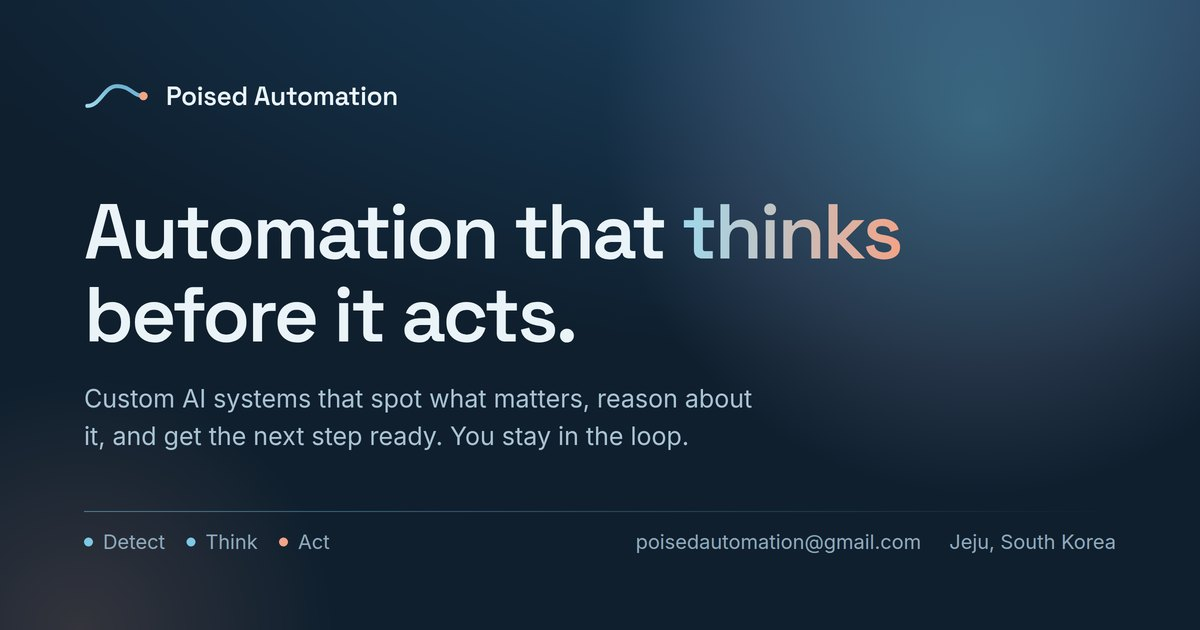
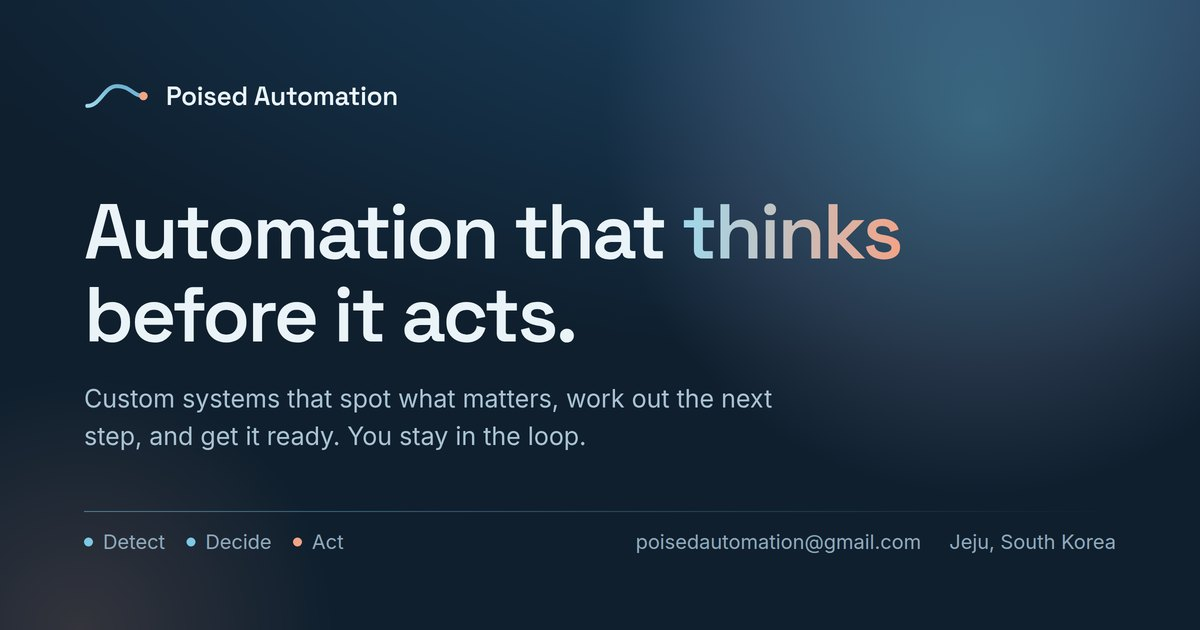
Reposition the thinking layer as engineered logic, switch to company voice
Three changes to how the work is described.

The hero now says "we build", not "they spot". The company voice is first
person plural throughout, and the contact section matches it. The about
section still tells the solo engineer story, just without a clashing
pronoun.

AI is no longer presented as the thing doing the deciding. The second step
is now called Decide instead of Think, and it leads with the decision rules
mapped to the client's real workflow. AI is described as handling the one
open ended part of a case, like reading a message or drafting a reply, then
handing the result back to the rules. The hero pipeline label changes from
"AI evaluates" to "Logic decides", and the Design step in the process
section talks about what the rules decide and which cases need judgement.

Dropped the "typically built with" tool chips. Naming the stack made the
work look like something anyone could assemble.

Regenerated the share image to match. Lighthouse is unchanged at
99/100/100/100 on mobile.

Claude-Session: https://claude.ai/code/session_01ASdRPZi4XkngQwSZ9wGB8b

Changed region(s): [[0.0617, 0.6032, 0.6475, 0.7238], [0.1542, 0.8444, 0.2775, 0.8746]]

diff --git a/index.html b/index.html
@@ -4,7 +4,7 @@
 <meta charset="utf-8">
 <meta name="viewport" content="width=device-width, initial-scale=1">
 <title>Poised Automation | Custom AI Automation Systems for Business</title>
-<meta name="description" content="Poised Automation builds custom AI systems that spot what matters in your business, work out the next step, and act on it. You stay in control of anything that goes out. Based in Jeju, South Korea, working worldwide.">
+<meta name="description" content="We build custom automation systems that take the repetitive digital work off your desk. Engineered decision logic handles the routine, AI covers the cases that genuinely need judgement, and you approve anything that goes out. Based in Jeju, South Korea, working worldwide.">
 <meta name="author" content="Poised Automation">
 <meta name="theme-color" content="#F7FAFC" media="(prefers-color-scheme: light)">
 <meta name="theme-color" content="#0F1F2E" media="(prefers-color-scheme: dark)">
@@ -14,7 +14,7 @@
 <meta property="og:type" content="website">
 <meta property="og:site_name" content="Poised Automation">
 <meta property="og:title" content="Poised Automation | Automation that thinks before it acts.">
-<meta property="og:description" content="Custom AI systems that handle the repetitive digital work. They detect, evaluate and draft. A human approves anything that matters.">
+<meta property="og:description" content="Custom automation systems that handle the repetitive digital work. Engineered logic decides, AI covers the judgement calls, and you approve anything that matters.">
 <meta property="og:url" content="https://poisedautomation.netlify.app/">
 <meta property="og:image" content="https://poisedautomation.netlify.app/assets/img/og.jpg">
 <meta property="og:image:width" content="1200">
@@ -40,7 +40,7 @@
   "@context": "https://schema.org",
   "@type": "ProfessionalService",
   "name": "Poised Automation",
-  "description": "Custom AI automation systems for businesses. Poised Automation designs, builds and refines systems that detect a signal, evaluate it with AI, and act on it, with a human checkpoint on anything sensitive.",
+  "description": "Custom automation systems for businesses. Poised Automation designs, builds and refines systems that detect a signal, decide what to do with engineered logic, call on AI for the cases that need judgement, and act, with a human checkpoint on anything sensitive.",
   "url": "https://poisedautomation.netlify.app/",
   "email": "poisedautomation@gmail.com",
   "image": "https://poisedautomation.netlify.app/assets/img/og.jpg",
@@ -119,9 +119,10 @@
         <p class="eyebrow reveal">AI automation studio in Jeju, South Korea</p>
         <h1 class="reveal">Automation that <em>thinks</em> before it acts.</h1>
         <p class="lede reveal">
-          Poised Automation builds custom AI systems that handle the repetitive digital work
-          inside a business. They spot what matters, think it through, and get the next step
-          ready. You stay in control of anything that actually goes out the door.
+          We build custom systems that handle the repetitive digital work inside a business.
+          Each one runs on decision logic mapped to how you already work, so it knows what
+          matters and what happens next. You stay in control of anything that actually goes
+          out the door.
         </p>
         <div class="hero__actions reveal">
           <a class="btn btn--accent" href="#contact">Start a conversation</a>
@@ -153,7 +154,7 @@
           </svg>
           <ul class="pipeline__labels">
             <li><span class="dot"></span>Signal detected</li>
-            <li><span class="dot"></span>AI evaluates</li>
+            <li><span class="dot"></span>Logic decides</li>
             <li><span class="dot"></span>Human checkpoint</li>
             <li><span class="dot"></span>Action taken</li>
           </ul>
@@ -186,8 +187,8 @@
         <p class="eyebrow">What Poised Automation does</p>
         <h2>Three moves, running quietly in the background.</h2>
         <p class="sub">
-          Every system is built around the same simple shape. Watch, think, act. All of it wired
-          into the tools a business already uses.
+          Every system is built around the same simple shape. Watch, decide, act. All of it
+          wired into the tools you already use.
         </p>
       </header>
 
@@ -201,10 +202,11 @@
           </li>
           <li class="step reveal" data-step="2">
             <span class="step__num" aria-hidden="true">02</span>
-            <h3>Think</h3>
-            <p>An AI model reads what came in and works out the next step. Is this worth your time,
-              what does it need, what should the reply say, where does it belong. Reasoning, not
-              keyword matching.</p>
+            <h3>Decide</h3>
+            <p>This is the engineered part. We map your real decision rules first. What counts as
+              urgent, where each case belongs, what has to be true before anything moves. When a
+              case is genuinely open ended, like reading a message or drafting a reply, an AI model
+              handles that one step and hands the result back.</p>
           </li>
           <li class="step reveal" data-step="3">
             <span class="step__num" aria-hidden="true">03</span>
@@ -234,20 +236,12 @@
             </svg>
           </div>
           <figcaption>
-            A signal arrives, the model reasons about it, and the result lands where it belongs.
-            There is always a checkpoint before anything irreversible.
+            A signal arrives, the rules work out what it needs, and the result lands where it
+            belongs. There is always a checkpoint before anything irreversible.
           </figcaption>
         </figure>
       </div>
 
-      <p class="stack reveal">
-        <span class="stack__label">Typically built with</span>
-        <span class="chip">Make.com</span>
-        <span class="chip">Claude &amp; other AI models</span>
-        <span class="chip">Airtable</span>
-        <span class="chip">Telegram / Slack checkpoints</span>
-        <span class="chip">Your existing tools</span>
-      </p>
     </div>
   </section>
 
@@ -267,8 +261,9 @@
         </li>
         <li class="proc reveal">
           <span class="proc__idx">Design</span>
-          <p>Map the exact workflow on paper. What triggers it, what the AI decides, what data it
-            needs, and exactly where a human checks in before anything goes out.</p>
+          <p>Map the exact workflow on paper. What triggers it, what the rules decide, which cases
+            genuinely need judgement, what data it needs, and exactly where you check in before
+            anything goes out.</p>
         </li>
         <li class="proc reveal">
           <span class="proc__idx">Build</span>
@@ -305,8 +300,8 @@
         </article>
         <article class="card reveal">
           <h3>Control stays with you</h3>
-          <p>Drafts, not sends. Recommendations, not spends. The automation does the thinking and
-            the typing. The final call stays human.</p>
+          <p>Drafts, not sends. Recommendations, not spends. The system does the work and the
+            typing. The final call stays human.</p>
         </article>
         <article class="card reveal">
           <h3>Fitted, not adapted</h3>
@@ -343,7 +338,7 @@
           <div><dt>Studio</dt><dd>Poised Automation</dd></div>
           <div><dt>Based in</dt><dd>Jeju, South Korea</dd></div>
           <div><dt>Works with</dt><dd>Businesses worldwide, remotely</dd></div>
-          <div><dt>Focus</dt><dd>AI-driven workflow automation</dd></div>
+          <div><dt>Focus</dt><dd>Business workflow automation</dd></div>
           <div><dt>Approach</dt><dd>One bottleneck at a time</dd></div>
         </dl>
       </aside>
@@ -357,8 +352,8 @@
         <p class="eyebrow">Get in touch</p>
         <h2>Let's find the bottleneck worth automating.</h2>
         <p class="sub">
-          Tell me the task you would hand off tomorrow if you could. One line is enough. I will reply
-          with whether it is a good first candidate and what it would take.
+          Tell us the task you would hand off tomorrow if you could. One line is enough. We will
+          reply with whether it is a good first candidate and what it would take.
         </p>
       </header>
 
@@ -382,7 +377,7 @@
           <label for="task">The repetitive task, in one line</label>
           <textarea id="task" name="task" rows="3" required
             placeholder="e.g. Every enquiry from the site gets read, sorted and replied to by hand."></textarea>
-          <p class="err" data-err="task" hidden>A sentence is plenty. Just so I know what we are looking at.</p>
+          <p class="err" data-err="task" hidden>A sentence is plenty, just so we know what we are looking at.</p>
         </div>
         <!-- honeypot: real people never see it, bots fill it in -->
         <div class="hp" aria-hidden="true">

diff --git a/assets/css/styles.css b/assets/css/styles.css
@@ -411,16 +411,6 @@ ul, ol { margin: 0; padding: 0; list-style: none; }
 .flowviz .pipeline { max-width: 300px; margin-inline: auto; }
 .flowviz figcaption { font-size: .9rem; color: var(--mist); margin-top: .75rem; max-width: 34ch; margin-inline: auto; }
 
-.stack {
-  display: flex; flex-wrap: wrap; align-items: center; gap: .5rem;
-  margin: clamp(2.5rem, 5vw, 3.5rem) 0 0; justify-content: center;
-}
-.stack__label { font-size: .82rem; letter-spacing: .1em; text-transform: uppercase; color: var(--mist); margin-right: .35rem; }
-.chip {
-  font-size: .86rem; font-weight: 500; color: var(--deep);
-  background: rgba(255,255,255,.85); border: 1px solid var(--sky-soft);
-  padding: .42rem .85rem; border-radius: 999px;
-}
 @media (max-width: 900px) {
   .flowgrid { grid-template-columns: 1fr; }
   .flowviz { order: -1; }

diff --git a/assets/js/main.js b/assets/js/main.js
@@ -304,7 +304,7 @@
 
       var sent = function () {
         form.reset();
-        say('Got it, thank you. You\'ll hear back from me within a day.', 'ok');
+        say('Got it, thank you. You\'ll hear back from us within a day.', 'ok');
       };
 
       /* 1. an explicit endpoint (Formspree or similar) wins */
